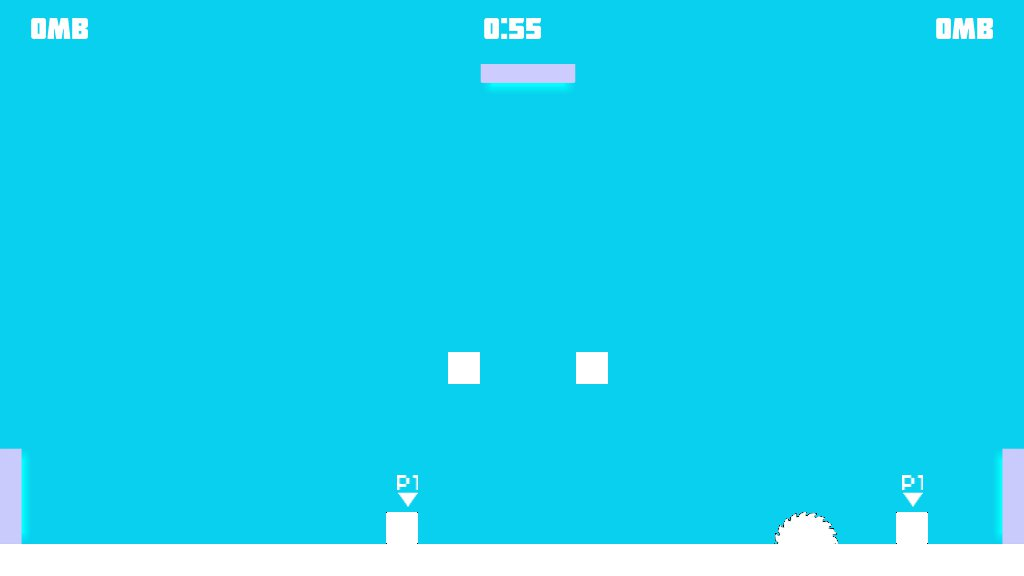
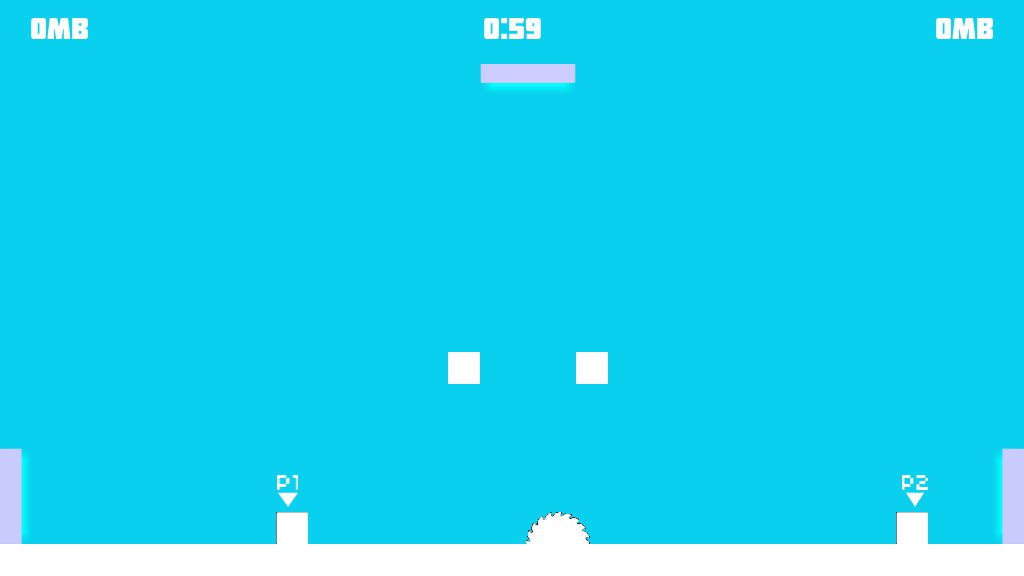
HUD and dynamic background color
Improved the HUD and introduced changing background colors.

diff --git a/gamelib/logicfactory.py b/gamelib/logicfactory.py
@@ -1,7 +1,8 @@
 import pygame
 import sys, os
 from pygame import *
-from constants import SCREEN, COLOR, STATE, GAME
+from random import choice
+from constants import SCREEN, COLOR, STATE, GAME, ASSET
 from levelfactory import Stage
 from camera import Camera
 from uifactory import Menu
@@ -47,6 +48,7 @@ class GameEngine(object):
         self.menu = Menu(SCREEN.width, SCREEN.height)
 
         self.bg = SCREEN.bg
+        self.screen_color = (choice(COLOR.colors))
         try:
             self.player1_joy = pygame.joystick.Joystick(0)
             self.player1_joy.init()
@@ -60,6 +62,7 @@ class GameEngine(object):
         self.timer = GAME.time
         self.camera = Camera(self.complex_camera, self.stage.level.width, self.stage.level.height)
         self.menu = Menu(SCREEN.width, SCREEN.height)
+        self.screen_color = (choice(COLOR.colors))
 
     def handle_events(self):
         for event in pygame.event.get():
@@ -93,7 +96,7 @@ class GameEngine(object):
 
         if self.stage == STATE.menu:
             self.menu.update()
-        elif state == STATE.countdown:
+        elif self.state == STATE.countdown:
             pass
         elif self.state == STATE.game:            
             self.stage.level.update()
@@ -125,7 +128,11 @@ class GameEngine(object):
 
     def draw(self):
         self.screen.fill(COLOR.white)
-        self.screen.blit(self.bg, (0,0))
+        #self.screen.blit(self.bg, (0,0))
+        self.screen.fill(self.screen_color)
+
+
+        self.screen.blit(ASSET.score_bg, (0, 0))
 
         if self.state == STATE.game:
             #self.screen.blit(self.bg, (0,0))

diff --git a/gamelib/player.py b/gamelib/player.py
@@ -14,6 +14,7 @@ class Player(PhysicsBody):
         self.direction = DIRECTION.left
         self.id = id
         self.label = PhysicsBody(0, 0, 21, 32, PLAYER.p1_label)
+        self.original_image = self.image
 
     def draw(self, screen):
         screen.blit(self.image, self.rect)
@@ -42,8 +43,17 @@ class Player(PhysicsBody):
                 if event.key == K_m:
                     if self.has_data:
                         self.shoot_data = True
+    
+    def animate_size(self):
+        if self.has_data:
+            self.grow()
+        else:
+            self.shrink()
 
     def update(self):
+        self.animate_size()
+        if self.has_data:
+            self.grow()
         self.check_bounds()
         self.label.rect.centerx = self.rect.centerx
         self.label.rect.bottom = self.rect.top - 5
@@ -88,4 +98,20 @@ class Player(PhysicsBody):
         x = self.rect.x + self.hspeed
         y = self.rect.top - 32 + self.vspeed
         return x, y, hspeed, vspeed
+
+    def grow(self):
+        centerx = self.rect.centerx
+        bottom = self.rect.bottom
+        self.image = pygame.transform.smoothscale(self.original_image, (40, 40))
+        self.rect = self.image.get_rect()
+        self.rect.centerx = centerx
+        self.rect.bottom = bottom
+
+    def shrink(self):
+        centerx = self.rect.centerx
+        bottom = self.rect.bottom
+        self.image = pygame.transform.smoothscale(self.original_image, (32, 32))
+        self.rect = self.image.get_rect()
+        self.rect.centerx = centerx
+        self.rect.bottom = bottom
 

diff --git a/gamelib/levelfactory.py b/gamelib/levelfactory.py
@@ -99,22 +99,10 @@ class Level(object):
             self.fragmentSpawnPos = [vport.x + vport.width/2, vport.y + vport.height]
 
         for port in self.io_out:
-            io_port = PhysicsBody(port.x, port.y, port.width, port.height, ASSET.ioOutImage, port.properties['direction'], port.properties['player'])
+            io_port = PhysicsBody(port.x, port.y, port.width, port.height, ASSET.ioOutImage, "left", port.properties['player'])
             self.io_out_group.add(io_port)
             self.display_group.add(io_port)
 
-        '''
-        for enemy_ in self.enemies:
-            enemy = Enemy(enemy_.x, enemy_.y, enemy_.width, enemy_.height, ASSET.enemyFrames)
-            enemy.collision_group = self.block_group.copy()
-            enemy.collision_group.add(self.io_out_group)
-            self.player1.collision_group.add(enemy)
-            self.player2.collision_group.add(enemy)
-            for item in self.player1.movingforce_group:
-                item.collision_group.add(enemy)
-            self.enemy_group.add(enemy)
-            self.display_group.add(enemy)
-        '''
         for bound in self.bounds:
             sawBound = PhysicsBody(bound.x, bound.y, bound.width, bound.height, blockImage)
             self.bounds_group.add(sawBound)

diff --git a/gamelib/constants.py b/gamelib/constants.py
@@ -30,6 +30,16 @@ class COLOR(object):
     gray = (31, 31, 31)
     green = (0, 196, 0)
     blue = (0, 109, 135)
+    deep_rose = (204, 51, 153)
+    regal_red = (204, 51, 102)
+    blue_sea = (0, 149, 186)
+    deep_blue = (0, 121, 150)
+    desert_blue = (51, 102, 153)
+    gold = (204, 153, 51)
+    burnt_orange = (214, 89, 49)
+    petal_green = (128, 190, 31)
+
+    colors = [deep_rose, regal_red, blue_sea, deep_blue, desert_blue, gold, burnt_orange, petal_green]
 
 class WORLD(object):
     gravity = 1
@@ -69,9 +79,11 @@ class ASSET(object):
 
     blockImage = pygame.image.load(os.path.join("assets", "images", "block.png"))
     ioInImage = pygame.image.load(os.path.join("assets", "images", "io_in.png"))
-    ioOutImage = pygame.image.load(os.path.join("assets", "images", "io_out.png"))
+    ioOutImage = pygame.image.load(os.path.join("assets", "images", "iosprites.png"))
 
     sawSheet = pygame.image.load(os.path.join("assets", "images", "sawspritesheet.png"))
     sawMap = os.path.join("assets", "images", "sawspritesheet.txt")
     sawFrames = ObjectAsset(sawSheet, sawMap)
 
+    score_bg = pygame.image.load(os.path.join("assets", "images", "score_bg.png"))
+    score_bg = pygame.transform.smoothscale(score_bg, (SCREEN.width, 54))

diff --git a/gamelib/saw.py b/gamelib/saw.py
@@ -10,6 +10,7 @@ class Saw(PhysicsBody):
         PhysicsBody.__init__(self, x, y, width, height, image)
         self.bounds = pygame.sprite.Group()
         self.changeDirection = False
+        self.angle = 0
 
         self.hspeed = choice([-2, 2])
         self.index = 0
@@ -47,10 +48,11 @@ class Saw(PhysicsBody):
             self.frame = 0
         self.image = self.frames[self.frame]
 
+
     def rest(self, duration):
         count = 0
         for i in xrange(GAME.fps * duration, -1, -1):
             if count >= i:
-                changeDirection = False
+                self.changeDirection = False
 
 
